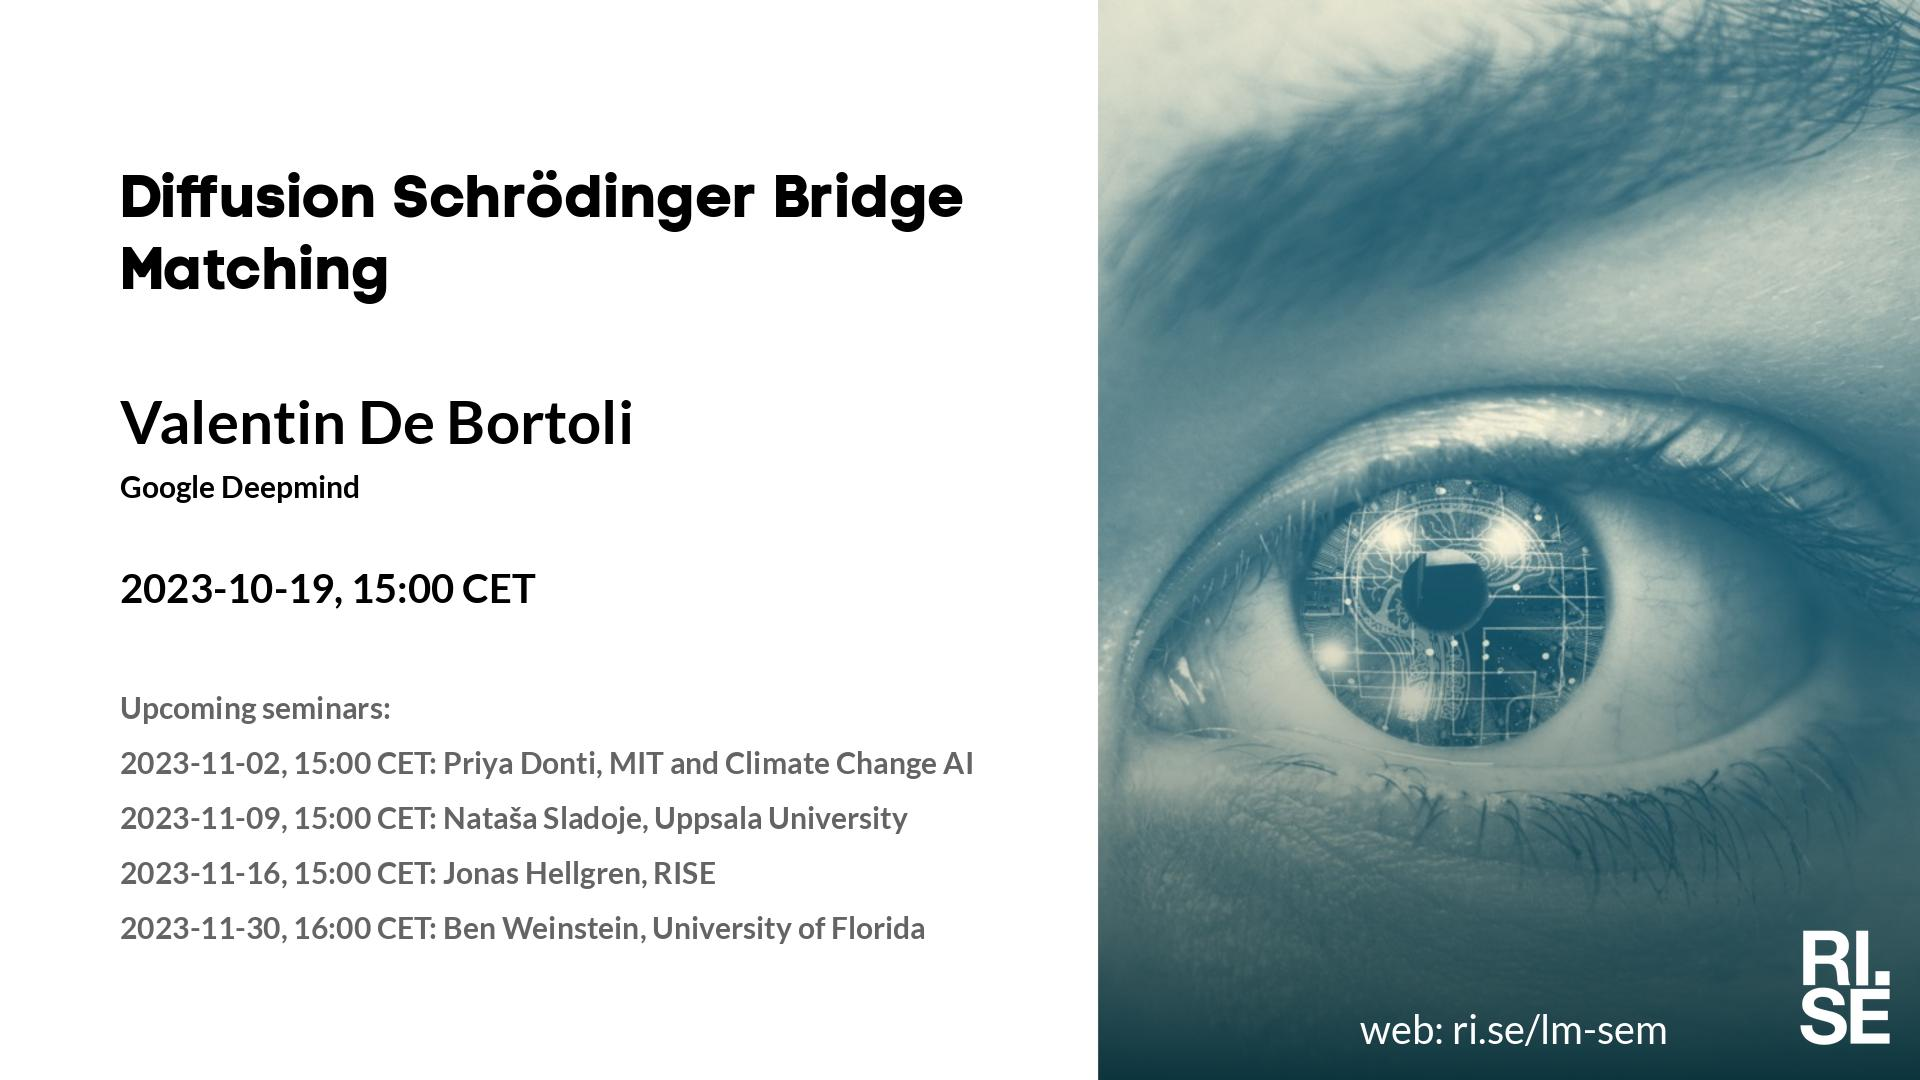
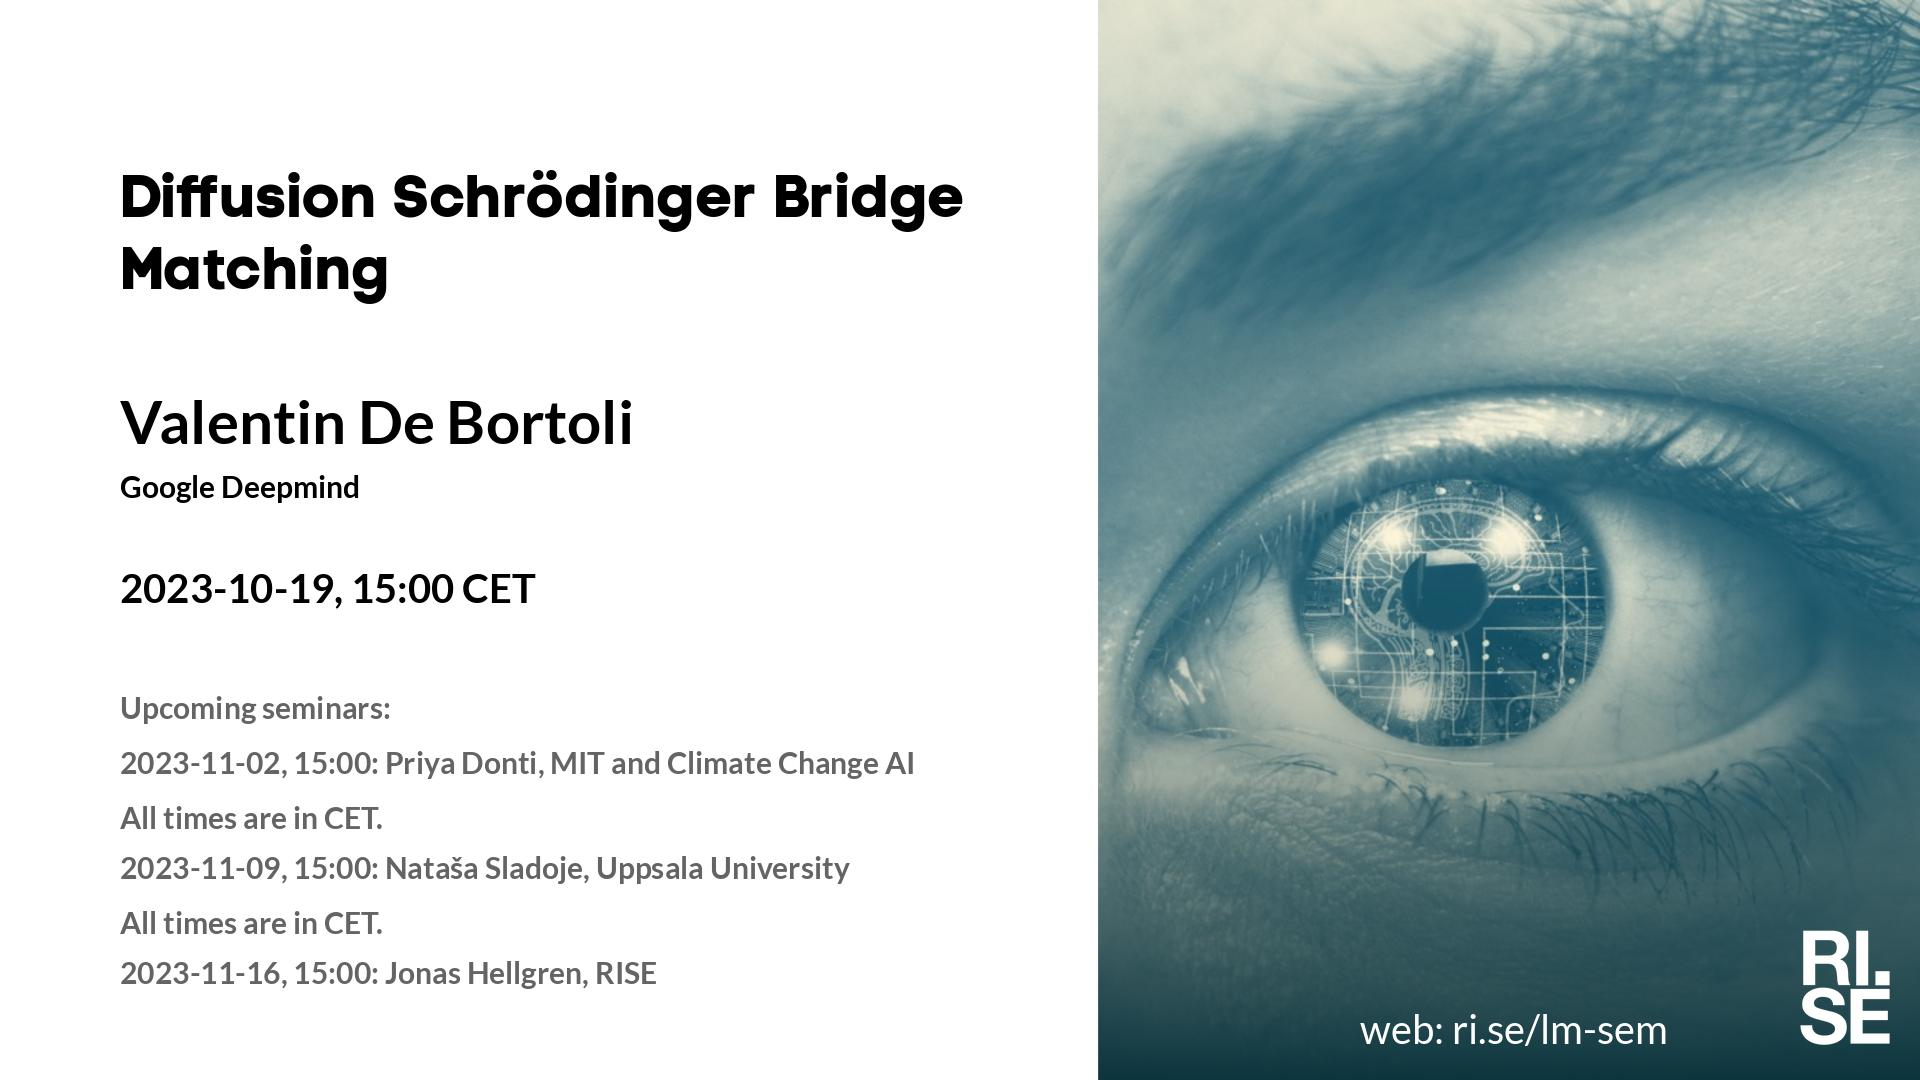
Updated plan on web site.

Changed region(s): [[0.0625, 0.6722, 0.5, 0.9167]]

diff --git a/lm/2023-11-02.md b/lm/2023-11-02.md
@@ -20,10 +20,11 @@ Welcome to this week's Learning Machines seminar.
 
 **Upcoming seminars:**
 
-* 2023-11-09, 15:00 CET: Nataša Sladoje, Uppsala University
-* 2023-11-16, 15:00 CET: Jonas Hellgren, RISE
-* 2023-11-30, 16:00 CET: Ben Weinstein, University of Florida
-* 2023-12-14, 15:00 CET: Fredrik Gustavsson, Karolinska Institutet
+* 2023-11-09, 15:00: Nataša Sladoje, Uppsala University
+* All times are in CET.
+* 2023-11-16, 15:00: Jonas Hellgren, RISE
+* All times are in CET.
+* 2023-11-30, 16:00: Ben Weinstein, University of Florida
 
 More information and coming seminars: [https://ri.se/lm-sem](https://ri.se/lm-sem)
 

diff --git a/lm/2023-10-19.md b/lm/2023-10-19.md
@@ -20,10 +20,11 @@ Welcome to this week's Learning Machines seminar.
 
 **Upcoming seminars:**
 
-* 2023-11-02, 15:00 CET: Priya Donti, MIT and Climate Change AI
-* 2023-11-09, 15:00 CET: Nataša Sladoje, Uppsala University
-* 2023-11-16, 15:00 CET: Jonas Hellgren, RISE
-* 2023-11-30, 16:00 CET: Ben Weinstein, University of Florida
+* 2023-11-02, 15:00: Priya Donti, MIT and Climate Change AI
+* All times are in CET.
+* 2023-11-09, 15:00: Nataša Sladoje, Uppsala University
+* All times are in CET.
+* 2023-11-16, 15:00: Jonas Hellgren, RISE
 
 More information and coming seminars: [https://ri.se/lm-sem](https://ri.se/lm-sem)
 
